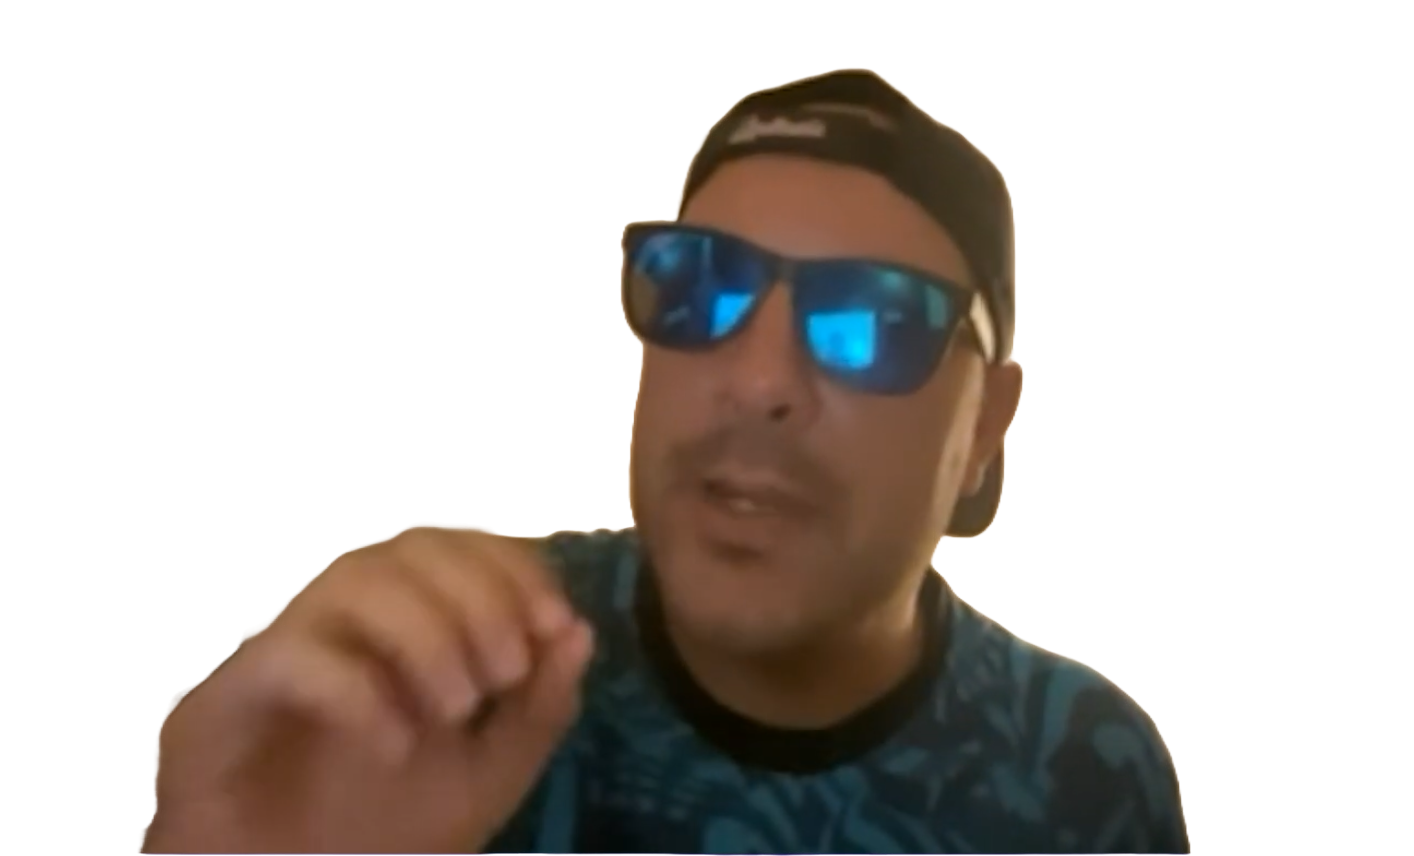
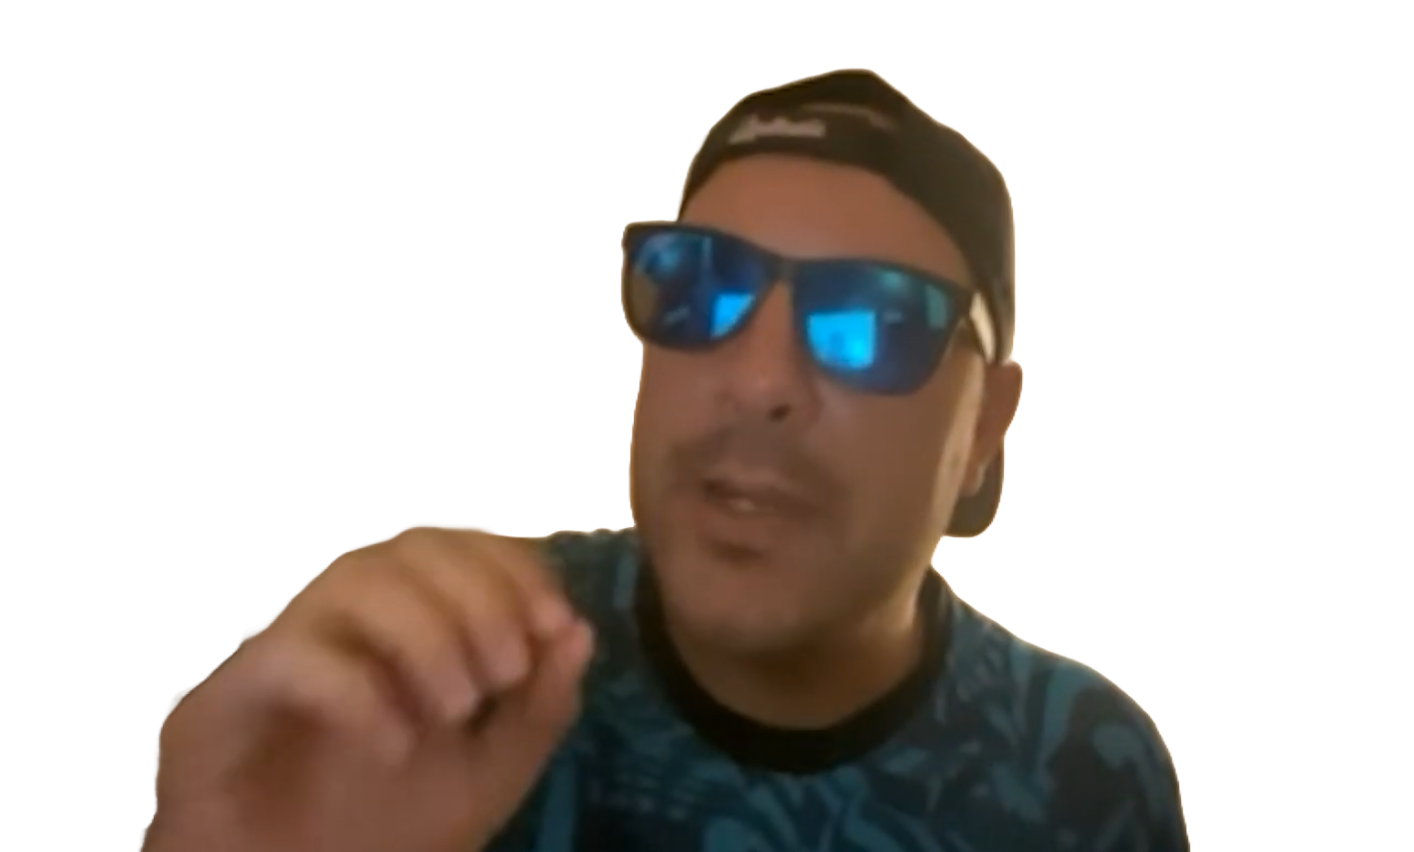
fix(onboarding): tidy the walkthrough hero
Three tweaks from review:

- Crop the fading bottom rows off the step 2 cutout and pull the rail up a
  pixel. The transparent tail of the PNG plus sub-pixel rounding on a
  contained image left a hairline of white card between Jake and the rail —
  measured at luminance 188 in a region otherwise at 40, now 42.
- Drop the gold icon badge between the photo and the step heading; the photo
  is the card's opening image now. The icon stays in the card data for the
  profile tab's static list.
- Shrink the photo to 4/5 width from sm up, where full width read too large.

Re-measured the fixed height against both changes: 536px below sm, 488px
from sm up, keyed to the same breakpoint as the photo so neither tier leaves
a band where copy can push the card taller. Verified identical on all four
steps at 320–1280px.

Claude-Session: https://claude.ai/code/session_019t8arH1q29H3zaavuavgaf

diff --git a/components/onboarding/how-it-works.tsx b/components/onboarding/how-it-works.tsx
@@ -71,25 +71,25 @@ export function HowItWorks({
   const specs = howItWorksCards(minPicks, maxPicks)
   const [index, setIndex] = useState(0)
   const spec = specs[index]
-  const Icon = spec.icon
   const isLast = index === specs.length - 1
 
-  // Fixed height so the card doesn't grow and shrink with each step's copy. One
-  // value for every width on purpose: the natural height climbs continuously
-  // with the card (the photo box is a ratio), measured 559px at 320px up to
-  // 595px once the card hits max-w-md, so any breakpoint tier leaves a band
-  // where the copy still pushes the card taller. 600px clears the tallest step
-  // at every width; on narrow phones the slack lands between the copy and the
-  // controls, identically on all four steps.
+  // Fixed height so the card doesn't grow and shrink with each step's copy.
+  // Measured from the tallest of the four steps at every width: 534px below sm
+  // (the card reaches max-w-md at a 496px viewport while the photo is still
+  // full width) and 482px from sm up, where the photo drops to 4/5. The tiers
+  // are keyed to the same breakpoint as the photo so neither one leaves a band
+  // where copy can still push the card taller. Slack lands between the copy and
+  // the controls, identically on all four steps.
   return (
-    <Card accent elevated className="min-h-[37.5rem]">
+    <Card accent elevated className="min-h-[33.5rem] sm:min-h-[30.5rem]">
       {/* The hero: Jake for this step, inset from the card edges with the brand
-          rail flush under him. All four are mounted and cross-fade on Next, so
-          the browser has them by the time you click and the box never flashes
-          empty. object-bottom keeps his feet on the rail; the 8/5 box is taller
-          than the widest source, so every photo fills the inset width. */}
+          rail flush under him — 4/5 width from sm up, where a full-width photo
+          reads too big. All four are mounted and cross-fade on Next, so the
+          browser has them by the time you click and the box never flashes empty.
+          object-bottom keeps him standing on the rail; the 8/5 box is taller
+          than the widest source, so every photo fills the box's width. */}
       <div className="px-4">
-        <div className="relative aspect-[8/5] w-full">
+        <div className="relative mx-auto aspect-[8/5] w-full sm:w-4/5">
           {specs.map((s, i) => (
             <Image
               key={s.photo}
@@ -106,17 +106,17 @@ export function HowItWorks({
             />
           ))}
         </div>
+        {/* -mt-px so the rail overlaps the photo's last pixel: contained images
+            round to a sub-pixel height, and the leftover sliver of white card
+            read as a hairline between Jake and the rail. */}
         <div
           aria-hidden
-          className="h-1.5 w-full rounded-sm bg-indigo-700 shadow-md"
+          className="-mt-px h-1.5 w-full rounded-sm bg-indigo-700 shadow-md"
         />
       </div>
 
       <CardContent className="flex flex-1 flex-col gap-5">
         <div className="flex flex-col items-center gap-3 text-center">
-          <span className="inline-flex size-12 items-center justify-center rounded-full bg-accent-gold text-accent-gold-foreground">
-            <Icon className="size-6" aria-hidden />
-          </span>
           <div className="font-heading text-2xl text-text-strong">{spec.title}</div>
           <p className="text-sm leading-normal text-text-muted">{spec.body}</p>
         </div>
